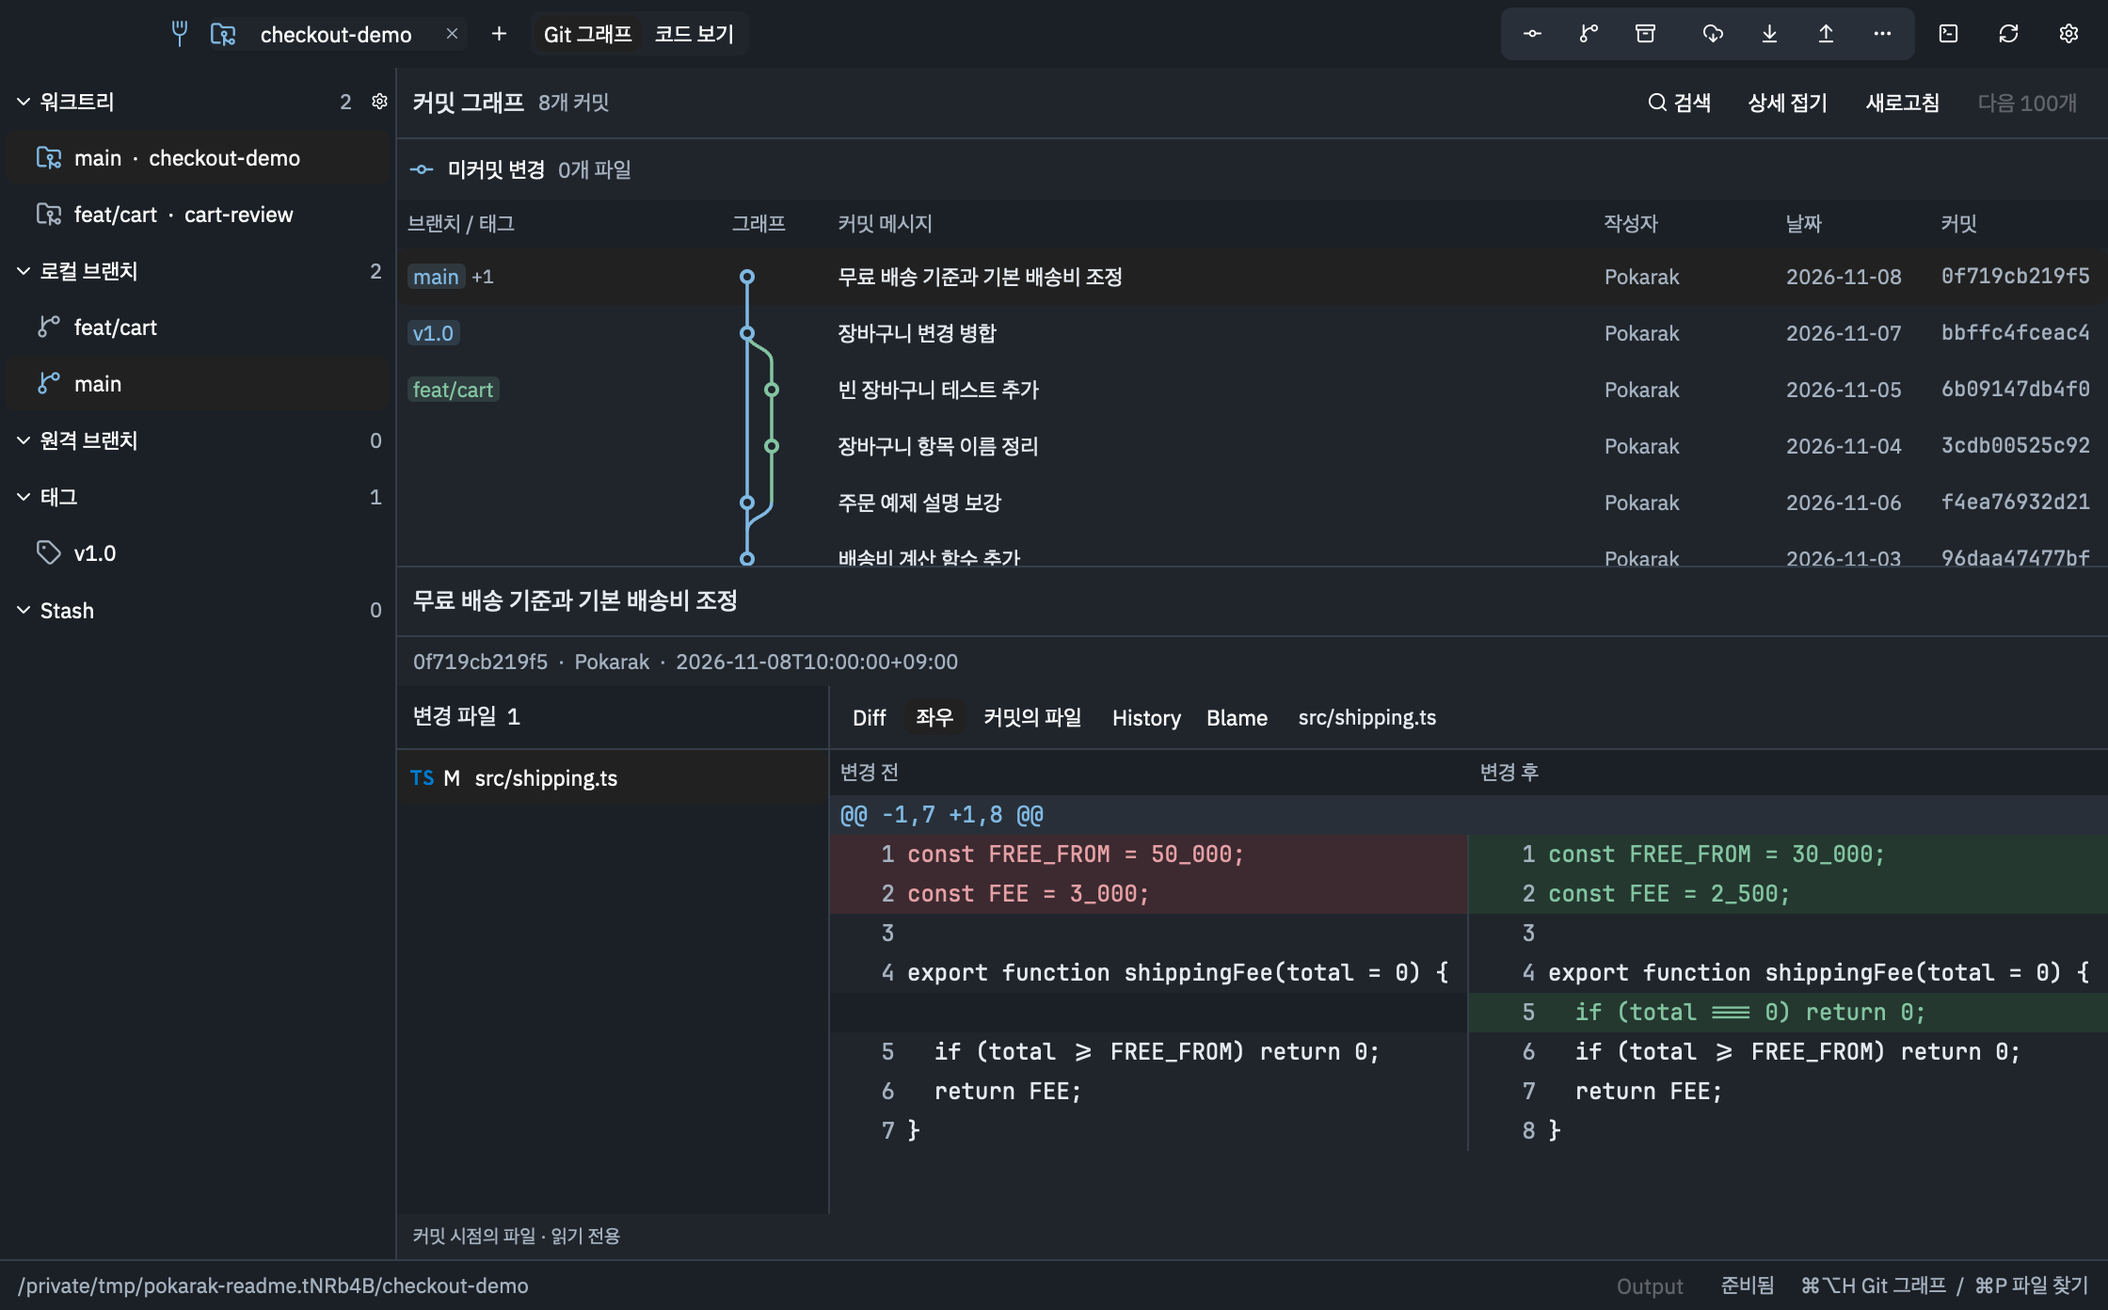
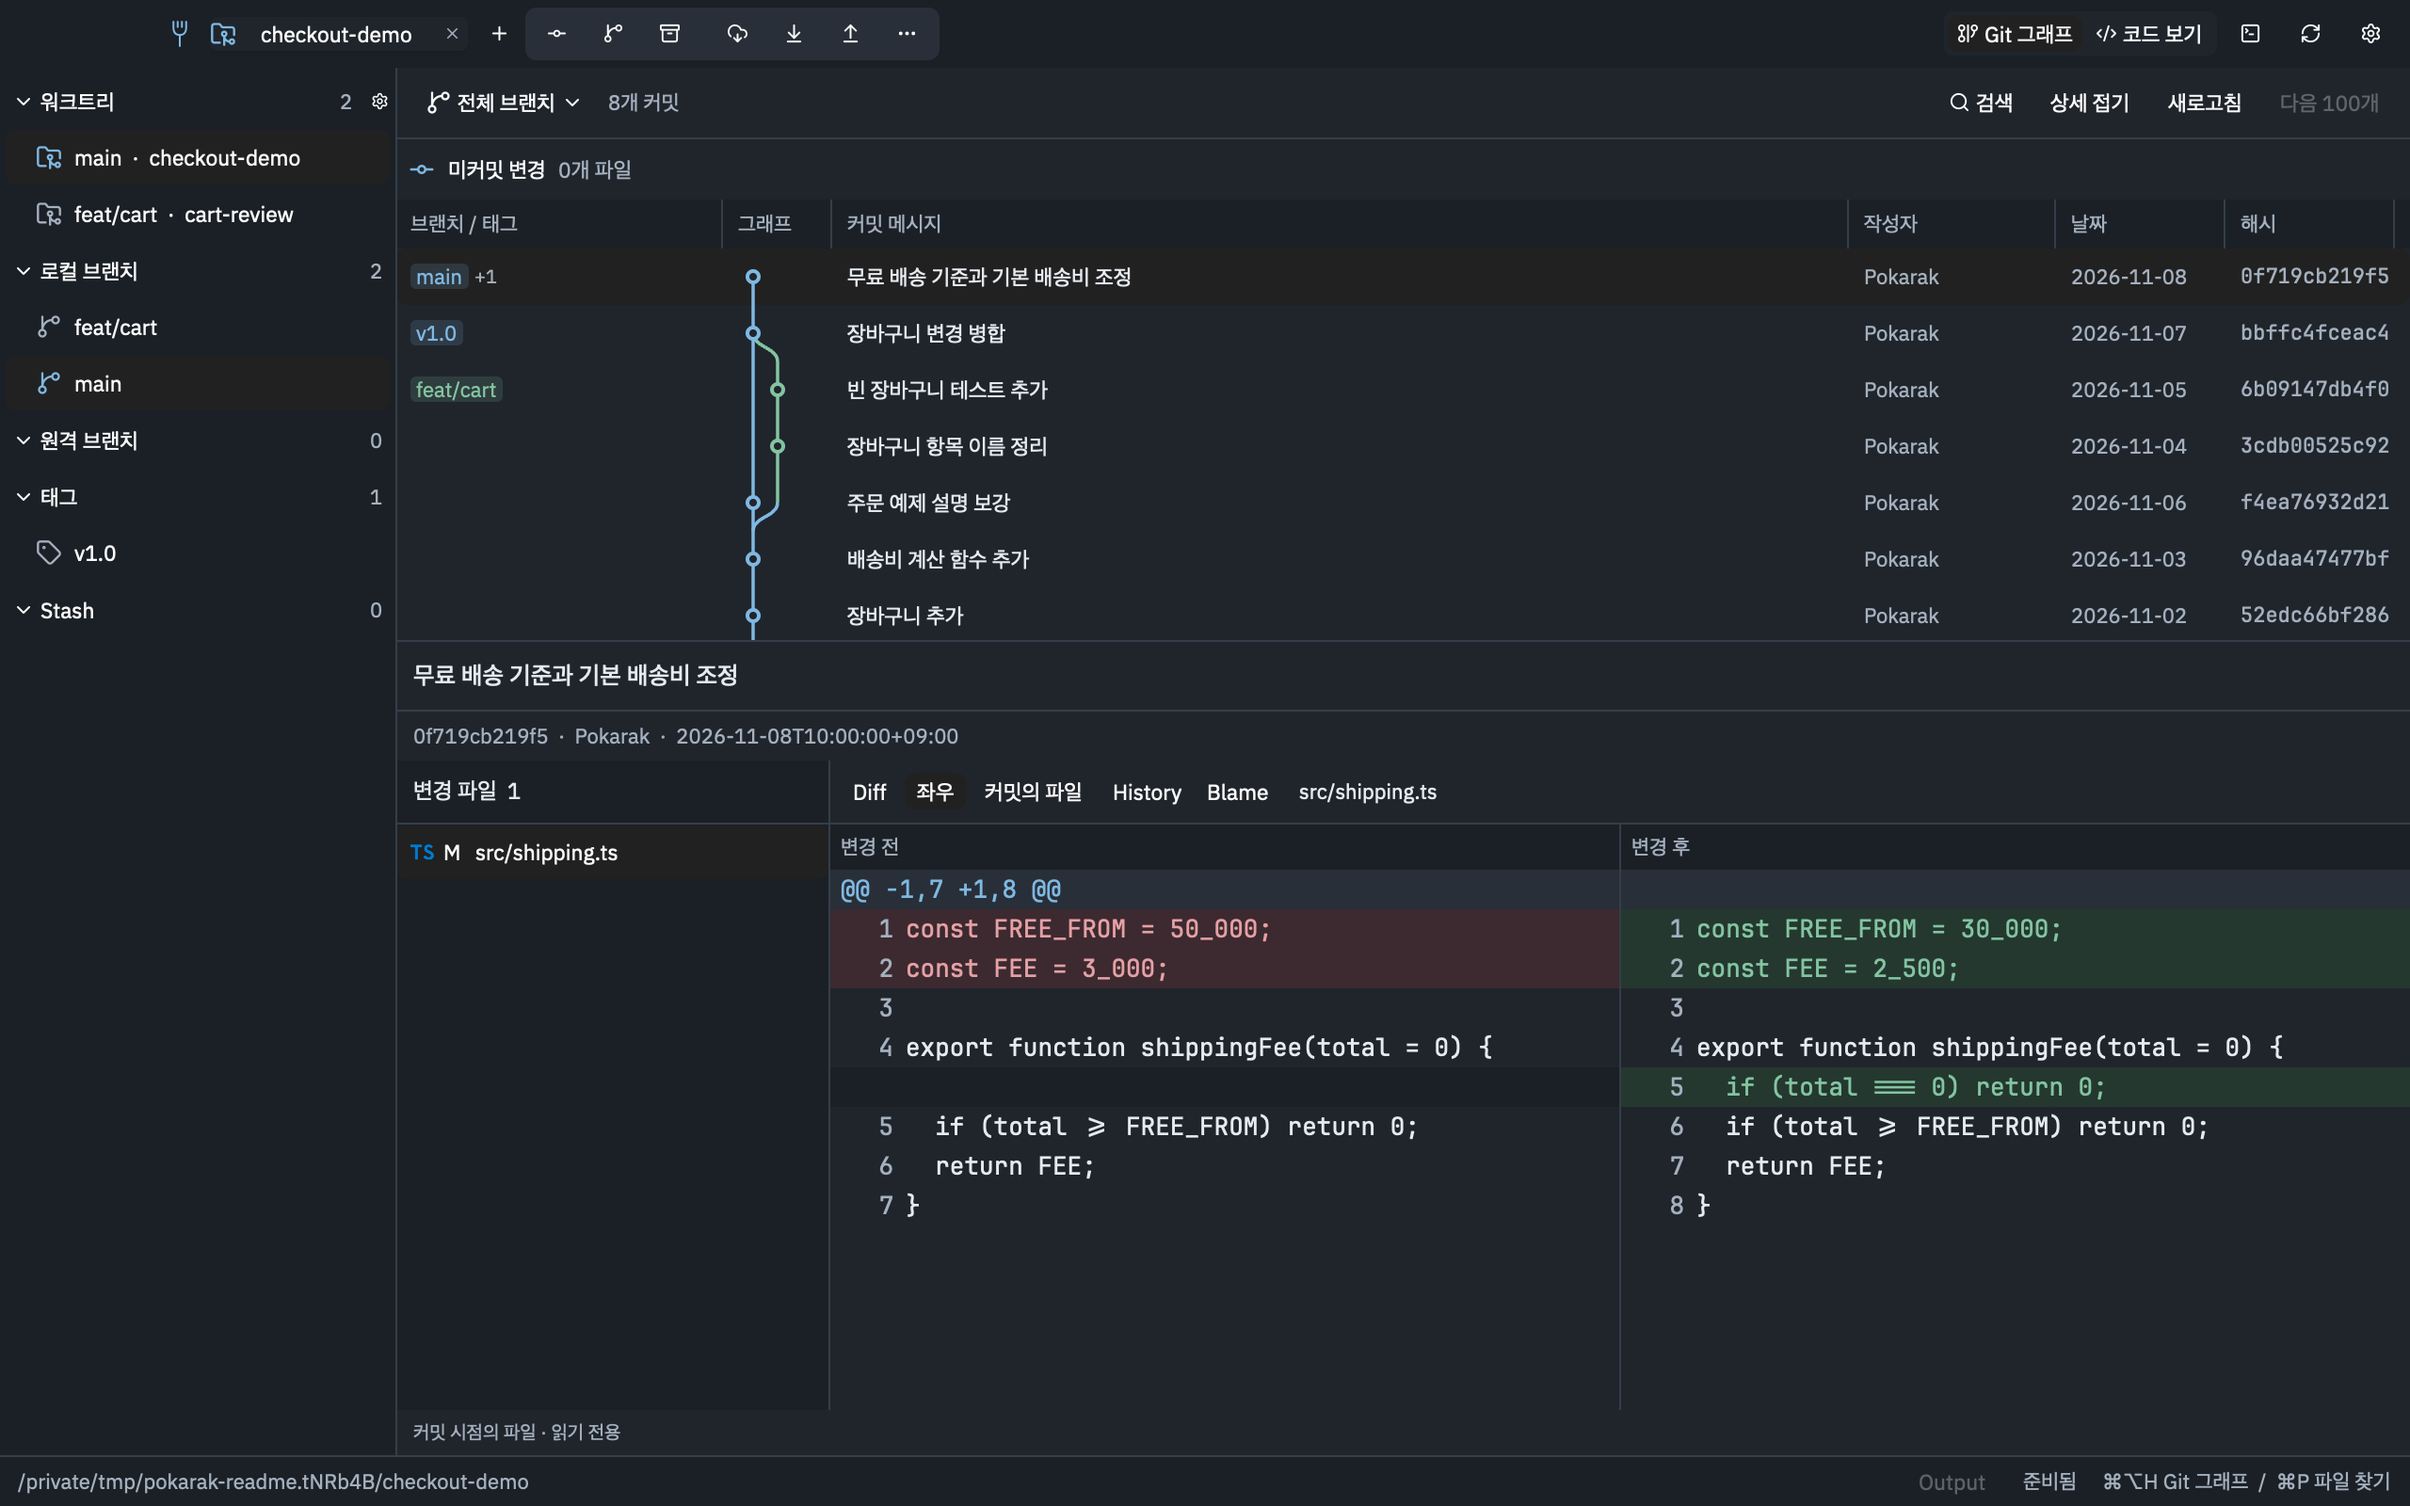
docs: show the new toolbar and draggable diff in the README

diff --git a/DESIGN.md b/DESIGN.md
@@ -12,11 +12,11 @@ Mode: operate/read. A compact developer review surface, with a steel spork mark 
 ## First viewport
 The 36px native titlebar keeps project tabs and the open-project action on the left, followed by a subtly raised toolbar with seven icon buttons for Stage / Commit, branches, stash, fetch, pull, push and more Git actions. The same buttons stay visible at the minimum window width. Hover reveals each action's name, and each icon has an accessibility label. The Graph/Code selector sits on the right, followed by the terminal, refresh and settings icons. Code View adds back and forward navigation immediately before the selector. The terminal opens an interactive login zsh in the selected worktree.
 
-Repositories open in Git Graph mode. A collapsible group for each of worktrees, local branches, remotes, tags and stashes sits to the left of the graph. Selecting a reference reveals its commit. Reference labels, graph lanes and commit messages have their own columns. Branch hover follows its first parent through merges. Cmd-F searches commit messages, authors and hashes across the repository. A commit context menu offers cherry-pick and revert. Local branch context menus name the source and destination for merge and rebase.
+Repositories open in Git Graph mode. A collapsible group for each of worktrees, local branches, remotes, tags and stashes sits to the left of the graph. Selecting a reference reveals its commit. Each commit table header has a draggable trailing edge. Header and rows scroll together horizontally when their widths exceed the viewport. The branch selector filters local and remote names and scopes the graph, search and pagination to the selected branch. Branch hover follows its first parent through merges. Cmd-F searches commit messages, authors and hashes across the repository. A commit context menu offers cherry-pick and revert. Local branch context menus name the source and destination for merge and rebase.
 
-Selecting a commit opens its changed files and read-only diff below the graph. The file toolbar offers unified and synchronized side-by-side diff, History and Blame, with parent selection for merges. Selecting the working-changes row opens staging, a diff and a commit message in the same pane. Each worktree remembers the pane dimensions and which sections are collapsed.
+Selecting a commit opens its changed files and read-only diff below the graph. The file toolbar offers unified and synchronized side-by-side diff, History and Blame, with parent selection for merges. Selecting the working-changes row opens staging, a diff and a commit message in the same pane. Each worktree remembers its branch filter, column widths, side-by-side diff ratio, pane dimensions and collapsed sections.
 
-Code View retains the existing changed files/all files, search and current-file reader, including per-worktree reading positions and language navigation. File/text search switches to Code View. Historical editors never invoke current-source language navigation. Project/worktree opens return to the graph and reject old asynchronous history results. Footer: worktree path and loading/analysis status. The worktree sidebar has no explanatory footer caption.
+Code View retains the existing changed files/all files, search and current-file reader, including per-worktree reading positions and language navigation. The settings dialog previews the text size used by code, diffs and blame. File/text search switches to Code View. Historical editors never invoke current-source language navigation. Project/worktree opens return to the graph and reject old asynchronous history results. Footer: worktree path and loading/analysis status. The worktree sidebar has no explanatory footer caption.
 
 ## Signature behavior
 Each worktree restores its exact reading context. The current comparison and worktree stay visible as the code reader moves through definitions and back. New filesystem data prompts refresh without yanking the current reading position.
